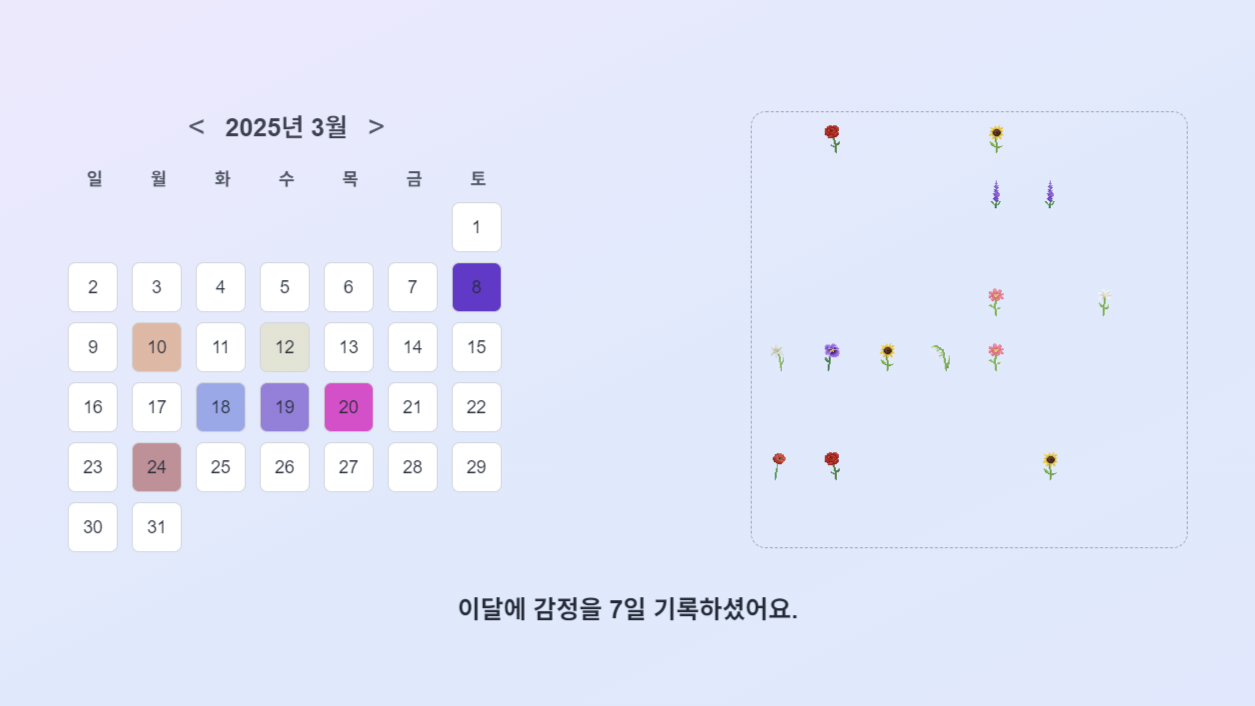
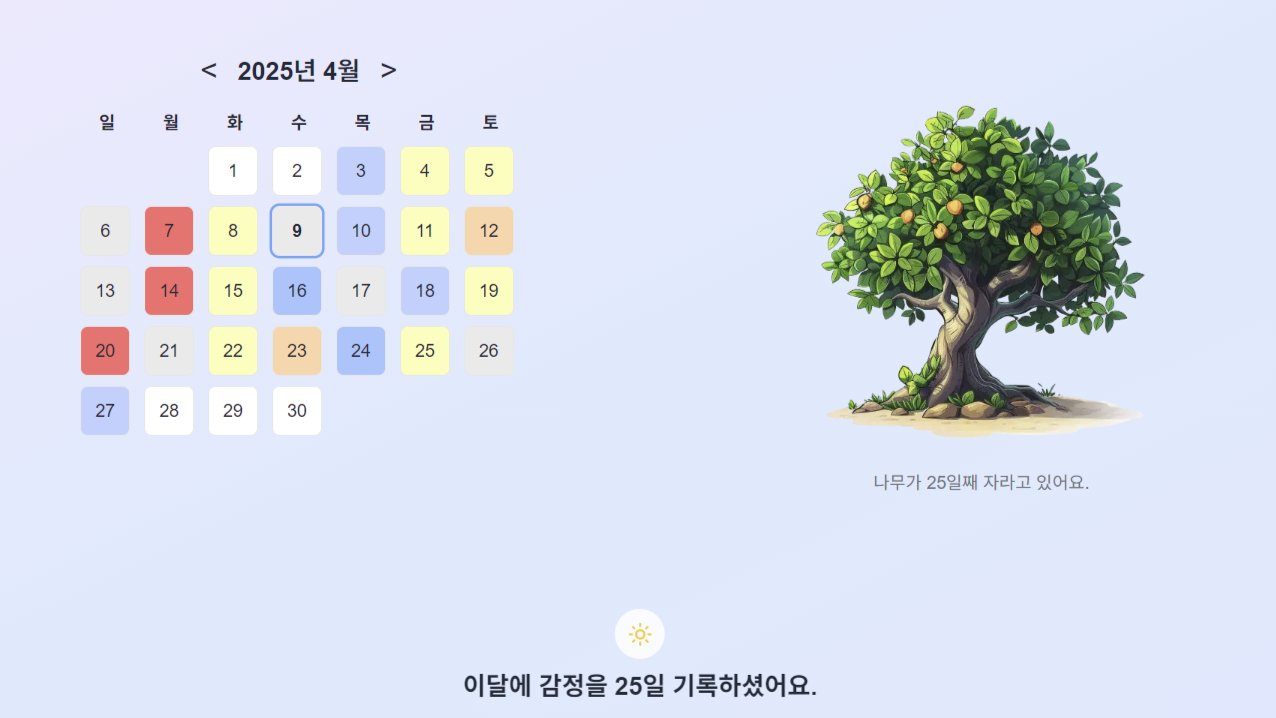
chore: update last feature section to use tree-growing concept instead of flower garden

diff --git a/src/app/page.tsx b/src/app/page.tsx
@@ -77,9 +77,9 @@ export default function MainPage() {
 
         <div className="animate-on-scroll" data-animate="fade-in-zoom">
           <Feature
-            emoji="🌸"
+            emoji="🌱"
             title="기록 남기기"
-            text="감정 색을 캘린더에 남기고, 마음꽃밭에 꽃 두 송이를 피워 보세요."
+            text="감정 색을 캘린더에 남기고, 마음나무를 하루하루 키워 보세요."
             image="/images/calendar-example.png"
           />
         </div>

diff --git a/src/app/healing/yoga/page.tsx b/src/app/healing/yoga/page.tsx
@@ -34,8 +34,8 @@ export default function YogaPage() {
   const [courses, setCourses] = useState<YogaCourse[]>([
     {
       id: 1,
-      title: "하루를 여는 기초 요가",
-      summary: "부드러운 스트레칭으로 하루를 가볍게 시작하세요.",
+      title: "코스 1",
+      summary: "업데이트 예정입니다.",
       locked: true,
       poses: [],
     },
